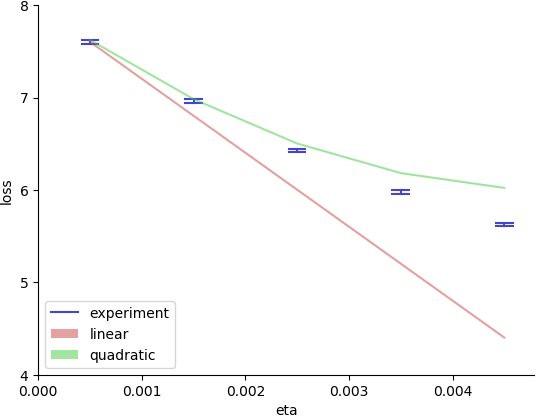
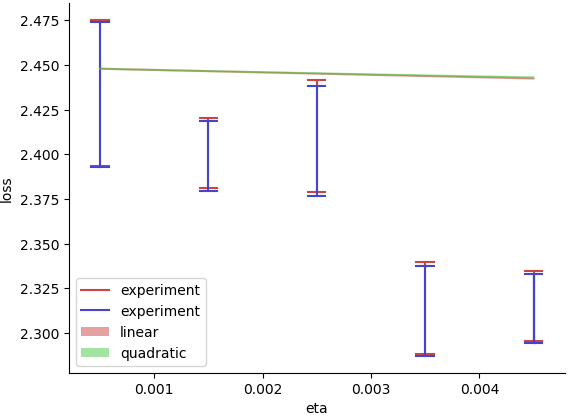
experiment on mnist...

diff --git a/experiments/simulator.py b/experiments/simulator.py
@@ -10,49 +10,87 @@ from utils import CC
 from optimlogs import OptimKey, OptimLog
 from landscape import PointedLandscape
 from quad_landscapes import Quadratic
+from mnist_landscapes import MnistLeNet
 import torch
 import tqdm
 
-def compute_sgd_loss(land, eta, T, N, I=1):
+#def compute_sgd_loss(land, eta, T, N, I=1):
+#    ol = OptimLog()
+#    for i in tqdm.tqdm(range(I)):
+#        land.reset_weights()
+#        D = land.sample_data(2*N) 
+#        D_train, D_test = D[:N], D[N:]
+#        for t in range(T):
+#            loss_stalk = land.get_loss_stalk(D_train[(t%N):(t%N)+1]) 
+#            grad = land.nabla(loss_stalk, False).detach()
+#            land.update_weights(-eta*grad)
+#        test_loss = land.get_loss_stalk(D_test)
+#        ol.accum(OptimKey(optimizer='sgd', eta=eta, N=N, T=T, metric='test'), test_loss)
+#    return ol
+#
+#def compute_gd_loss(land, eta, T, N, I=1):
+#    ol = OptimLog()
+#    for i in tqdm.tqdm(range(I)):
+#        land.reset_weights()
+#        D = land.sample_data(2*N) 
+#        D_train, D_test = D[:N], D[N:]
+#        for t in range(T):
+#            loss_stalk = land.get_loss_stalk(D_train)
+#            grad = land.nabla(loss_stalk, False).detach()
+#            land.update_weights(-eta*grad)
+#        test_loss = land.get_loss_stalk(D_test)
+#        ol.accum(OptimKey(optimizer='gd', eta=eta, N=N, T=T, metric='test'), test_loss)
+#    return ol
+
+def compute_losses(land, eta, T, N, I=1):
     ol = OptimLog()
     for i in tqdm.tqdm(range(I)):
-        land.reset_weights()
         D = land.sample_data(2*N) 
         D_train, D_test = D[:N], D[N:]
+        w0 = land.get_weights()
+        # SGD:
+        land.reset_weights(w0)
         for t in range(T):
             loss_stalk = land.get_loss_stalk(D_train[(t%N):(t%N)+1]) 
             grad = land.nabla(loss_stalk, False).detach()
             land.update_weights(-eta*grad)
-        test_loss = land.get_loss_stalk(D_test)
-        ol.accum(OptimKey(optimizer='gd', eta=eta, N=N, T=T, metric='test'), test_loss)
-    return ol
+        sgd_test_loss = land.get_loss_stalk(D_test)
+        ol.accum(OptimKey(optimizer='sgd', eta=eta, N=N, T=T, metric='test'), sgd_test_loss)
 
-def compute_gd_loss(land, eta, T, N, I=1):
-    ol = OptimLog()
-    for i in range(I):
-        land.reset_weights()
-        D = land.sample_data(2*N) 
-        D_train, D_test = D[:N], D[N:]
+        # GD:
+        land.reset_weights(w0)
         for t in range(T):
             loss_stalk = land.get_loss_stalk(D_train)
             grad = land.nabla(loss_stalk, False).detach()
             land.update_weights(-eta*grad)
-        test_loss = land.get_loss_stalk(D_test)
-        ol.accum(OptimKey(optimizer='gd', eta=eta, N=N, T=T, metric='test'), test_loss)
+        gd_test_loss = land.get_loss_stalk(D_test)
+        ol.accum(OptimKey(optimizer='gd', eta=eta, N=N, T=T, metric='test'), gd_test_loss)
+
+
+        ol.accum(OptimKey(optimizer='diff', eta=eta, N=N, T=T, metric='test'), gd_test_loss-sgd_test_loss)
+
     return ol
 
 
-
 if __name__=='__main__':
-    DIM = 8
-    Q = Quadratic(dim=DIM)
+    LC = MnistLeNet()
     ol = OptimLog()
     for eta in tqdm.tqdm(np.arange(0.0005, 0.005, 0.001)):
         for T in [100]:
-            ol.absorb(compute_sgd_loss(Q, eta=eta, T=T, N=T, I=int(100000.0/(T+1))))
+            ol.absorb(compute_losses(LC, eta=eta, T=T, N=T, I=int(100000.0/(T+1))))
     print(ol)
     with open('ol.data', 'w') as f:
         f.write(str(ol))
+
+    #DIM = 8
+    #Q = Quadratic(dim=DIM)
+    #ol = OptimLog()
+    #for eta in tqdm.tqdm(np.arange(0.0005, 0.005, 0.001)):
+    #    for T in [100]:
+    #        ol.absorb(compute_losses(Q, eta=eta, T=T, N=T, I=int(100000.0/(T+1))))
+    #print(ol)
+    #with open('ol.data', 'w') as f:
+    #    f.write(str(ol))
     #print(CC+'measured @G {:+.1f} @W - @G {:+.1f} @W \t expected @Y {:.1f} @W '.format(
     #    mean - 1.96 * stdv/nb_samples**0.5,
     #    mean + 1.96 * stdv/nb_samples**0.5,

diff --git a/experiments/derivator.py b/experiments/derivator.py
@@ -15,6 +15,7 @@ import tqdm
 def compute_grad_stats(land, N, I=1):
     gs = GradStats()
     for i in tqdm.tqdm(range(I)):
+        land.reset_weights()
         A, B, C, D = (
             land.get_loss_stalk(land.sample_data(N))
             for i in range(4)
@@ -61,26 +62,35 @@ def compute_grad_stats(land, N, I=1):
     return gs
 
 if __name__ == '__main__':
-    from quad_landscapes import Quadratic
-    DIM = 8
-    hessian = torch.eye(DIM) 
-    #hessian[:int(DIM/2)] *= 2
-    Q = Quadratic(dim=DIM, hessian=hessian)
-    grad_stats = str(compute_grad_stats(Q, N=30, I=10000))
+
+    from mnist_landscapes import MnistLeNet
+    LC = MnistLeNet()
+    grad_stats = str(compute_grad_stats(LC, N=30, I=1000))
     with open('gs.data', 'w') as f:
         f.write(grad_stats)
-    for name, stats in sorted(eval(grad_stats).items()):
-        print(CC+'stat @R {:16s} @W \t measured @G {:+.2f} @W - @G {:+.2f} @W \t expected @Y {:.2f} @W '.format(
-            name,
-            stats["mean"] - 1.96 * stats["stdv"]/stats["nb_samples"]**0.5,
-            stats["mean"] + 1.96 * stats["stdv"]/stats["nb_samples"]**0.5,
-            {
-                '(0)()': DIM/2 * (3.0/2 + 3.0/2)  ,
-                '(0-1)(01)': DIM/2 * (5.0),
-                '(01)(01)': DIM/2 * (5.0 + 5.0),
-                '(0-1-2)(01-02)': DIM/2 * (9.0),
-                '(0-12)(01-02)': DIM/2 * (9.0 + 9.0),
-                '(0-12)(01-12)': DIM/2 * (9.0),
-                '(012)(01-02)': DIM/2 * (9.0 + 9.0)
-            }[name]
-        ))
+
+    #from quad_landscapes import Quadratic
+
+
+    #DIM = 8
+    #hessian = torch.eye(DIM) 
+    ##hessian[:int(DIM/2)] *= 2
+    #Q = Quadratic(dim=DIM, hessian=hessian)
+    #grad_stats = str(compute_grad_stats(Q, N=30, I=10000))
+    #with open('gs.data', 'w') as f:
+    #    f.write(grad_stats)
+    #for name, stats in sorted(eval(grad_stats).items()):
+    #    print(CC+'stat @R {:16s} @W \t measured @G {:+.2f} @W - @G {:+.2f} @W \t expected @Y {:.2f} @W '.format(
+    #        name,
+    #        stats["mean"] - 1.96 * stats["stdv"]/stats["nb_samples"]**0.5,
+    #        stats["mean"] + 1.96 * stats["stdv"]/stats["nb_samples"]**0.5,
+    #        {
+    #            '(0)()': DIM/2 * (3.0/2 + 3.0/2)  ,
+    #            '(0-1)(01)': DIM/2 * (5.0),
+    #            '(01)(01)': DIM/2 * (5.0 + 5.0),
+    #            '(0-1-2)(01-02)': DIM/2 * (9.0),
+    #            '(0-12)(01-02)': DIM/2 * (9.0 + 9.0),
+    #            '(0-12)(01-12)': DIM/2 * (9.0),
+    #            '(012)(01-02)': DIM/2 * (9.0 + 9.0)
+    #        }[name]
+    #    ))

diff --git a/experiments/visualize_diff.py b/experiments/visualize_diff.py
@@ -47,40 +47,40 @@ def plot_bars(x, y, s, color, label, z=1.96, bar_width=1.0/50):
     #--------------------------------------------------------------------------#
     #               2.1 plot curves                                            #
     #--------------------------------------------------------------------------#
-for opt in ('sgd', 'gd'):
-    X, Y, S = [], [], []
+X, Y, S = ({'sgd':[], 'gd':[], 'diff':[]} for i in range(3))
+for opt in ('sgd', 'gd', 'diff'):
     for okey in ol:
         if okey.optimizer != opt: continue
-        X.append(okey.eta)
-        Y.append(ol[okey]['mean'])
-        S.append(ol[okey]['stdv']/ol[okey]['nb_samples']**0.5)
-    X = np.array(X)
-    Y = np.array(Y)
-    S = np.array(S)
+        X[opt].append(okey.eta)
+        Y[opt].append(ol[okey]['mean'])
+        S[opt].append(ol[okey]['stdv']/ol[okey]['nb_samples']**0.5)
+    X[opt] = np.array(X[opt])
+    Y[opt] = np.array(Y[opt])
+    S[opt] = np.array(S[opt])
     
-    plot_bars(
-        X,
-        Y,
-        S,
-        color=blue if opt=='gd' else red,
-        label='experiment'
-    )
+plot_bars(
+    X['diff'],
+    Y['diff'],
+    S['diff'],
+    color=blue,
+    label='experiment'
+)
 
-X = np.arange(0.00, 1.01, 0.01)*(max(X)-min(X)) + min(X)
-Y, S = sgd_test_linear(eta=X, T=100) 
-plot_fill(X, Y, S, color=red, label='linear')
-Y, S = sgd_test_quadratic(eta=X, T=100) 
-plot_fill(X, Y, S, color=green, label='quadratic')
+#X = np.arange(0.00, 1.01, 0.01)*(max(X)-min(X)) + min(X)
+#Y, S = sgd_test_linear(eta=X, T=100) 
+#plot_fill(X, Y, S, color=red, label='linear')
+#Y, S = sgd_test_quadratic(eta=X, T=100) 
+#plot_fill(X, Y, S, color=green, label='quadratic')
 
     #--------------------------------------------------------------------------#
     #               2.2 label and save figures                                 #
     #--------------------------------------------------------------------------#
 
 plt.xlabel('eta')
-plt.ylabel('loss')
+plt.ylabel('diff loss')
 plt.gca().spines['right'].set_visible(False)
 plt.gca().spines['top'].set_visible(False)
 plt.legend(loc='best')
 #plt.xticks(np.arange(0.00, 0.0075, 0.0025))
 #plt.yticks(np.arange(4, 9, 1))
-plt.savefig('plot.png', pad_inches=0, bbox_inches='tight')
+plt.savefig('diff.png', pad_inches=0, bbox_inches='tight')

diff --git a/experiments/mnist_landscapes.py b/experiments/mnist_landscapes.py
@@ -11,8 +11,8 @@ from landscape import PointedLandscape
 
 import numpy as np
 import torch
-from torch import conv2d, matmul
-from torch.nn.functional import relu, log_softmax, nll_loss
+from torch import conv2d, matmul, tanh
+from torch.nn.functional import log_softmax, nll_loss 
 from torchvision import datasets, transforms
 
 
@@ -59,7 +59,7 @@ class MnistAbstractArchitecture(MNIST):
     def __init__(self, digits=list(range(10))):
         super().__init__(digits)
 
-    def reset_weights(self):
+    def reset_weights(self, weights=None):
         self.subweight_offsets = [
             sum(prod(shape) for shape in self.subweight_shapes[:depth])
             for depth in range(len(self.subweight_shapes)+1) 
@@ -70,7 +70,9 @@ class MnistAbstractArchitecture(MNIST):
         ]
 
         self.weights = torch.autograd.Variable(
-            torch.randn(self.subweight_offsets[-1], device=device),
+            torch.randn(self.subweight_offsets[-1], device=device)
+            if weights is None else torch.Tensor(weights)
+            ,
             requires_grad=True
         )
         self.get_subweight = lambda depth: ( 
@@ -79,6 +81,9 @@ class MnistAbstractArchitecture(MNIST):
                          self.subweight_offsets[depth+1]]
             .view(self.subweight_shapes[depth])
         )
+
+    def get_weights(self):
+        return self.weights.detach().numpy()
 
     def update_weights(self, displacement):
         self.weights.data += displacement.detach().data
@@ -119,10 +124,10 @@ class MnistLeNet(MnistAbstractArchitecture):
         self.reset_weights()
     def get_loss_stalk(self, data_indices):
         x, y = self.imgs[data_indices], self.lbls[data_indices]
-        x = relu(1.0 + conv2d(x, self.get_subweight(0), bias=None, stride=2))
-        x = relu(1.0 + conv2d(x, self.get_subweight(1), bias=None, stride=2))
+        x = tanh(1.0 + conv2d(x, self.get_subweight(0), bias=None, stride=2))
+        x = tanh(1.0 + conv2d(x, self.get_subweight(1), bias=None, stride=2))
         x = x.view(-1, 4*4*16, 1)
-        x = relu(1.0 + matmul(self.get_subweight(2), x))
+        x = tanh(1.0 + matmul(self.get_subweight(2), x))
         x = matmul(self.get_subweight(3), x)
         x = x.view(-1, self.nb_classes)
         logits = log_softmax(x, dim=1)

diff --git a/experiments/predictor.py b/experiments/predictor.py
@@ -21,7 +21,7 @@ def from_string(formula, eta, T):
     S = formula.replace('- ', '+ ').replace(' -', ' +')
     for k in gs:
         Y = Y.replace(k, 'gs["{}"]["mean"]'.format(k))
-        S = S.replace(k, '1.96*gs["{}"]["stdv"]/gs["{}"]["nb_samples"]'.format(k, k))
+        S = S.replace(k, 'gs["{}"]["stdv"]/gs["{}"]["nb_samples"]'.format(k, k))
     return (eval(form, {'eta':eta, 'T':T, 'gs':gs}) for form in (Y, S))
 
 def sgd_test_linear(eta, T):
